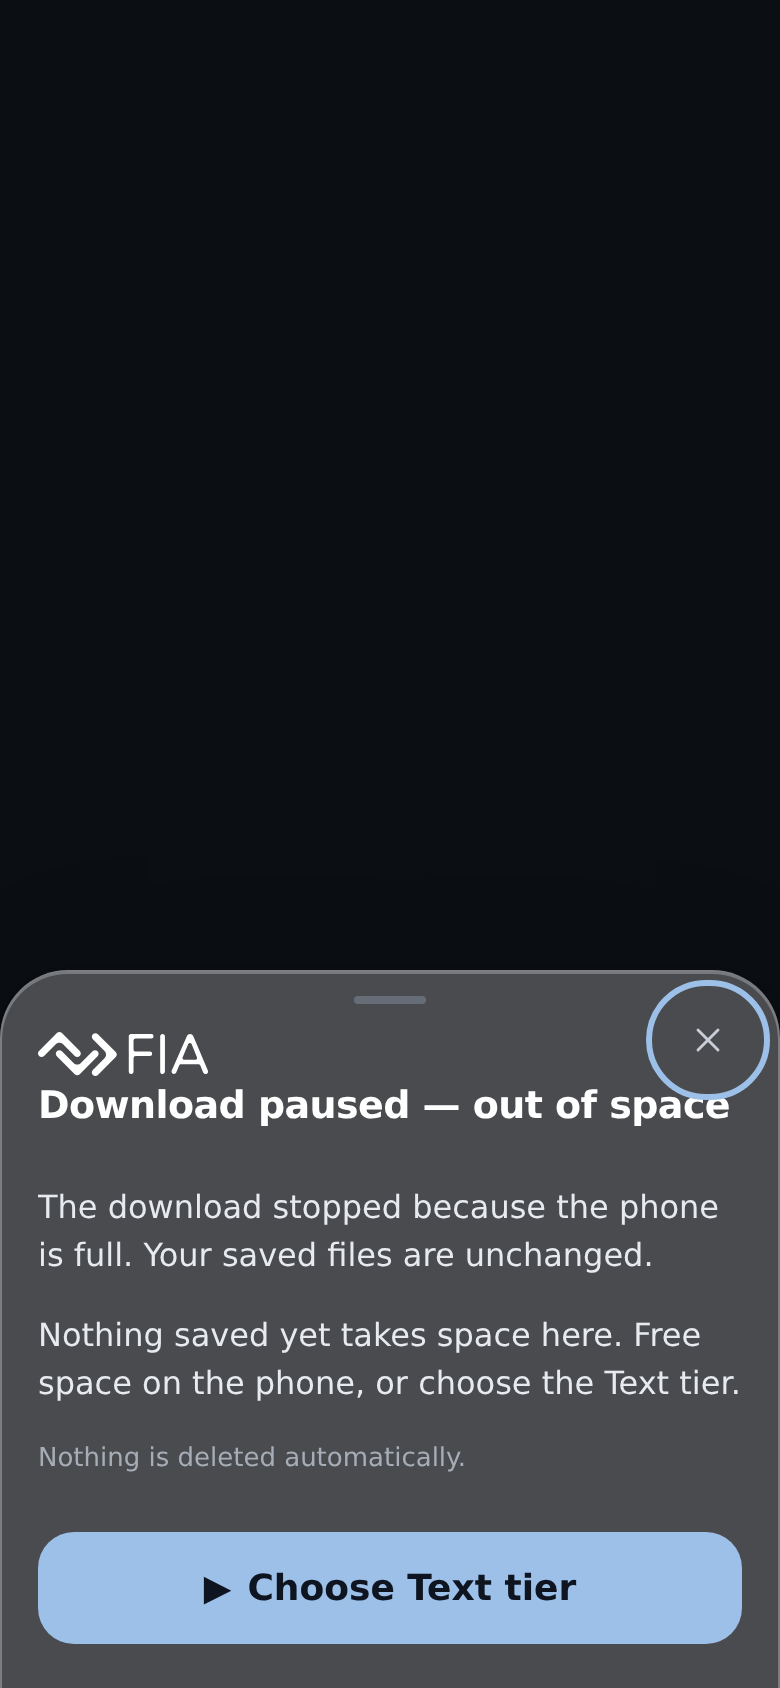
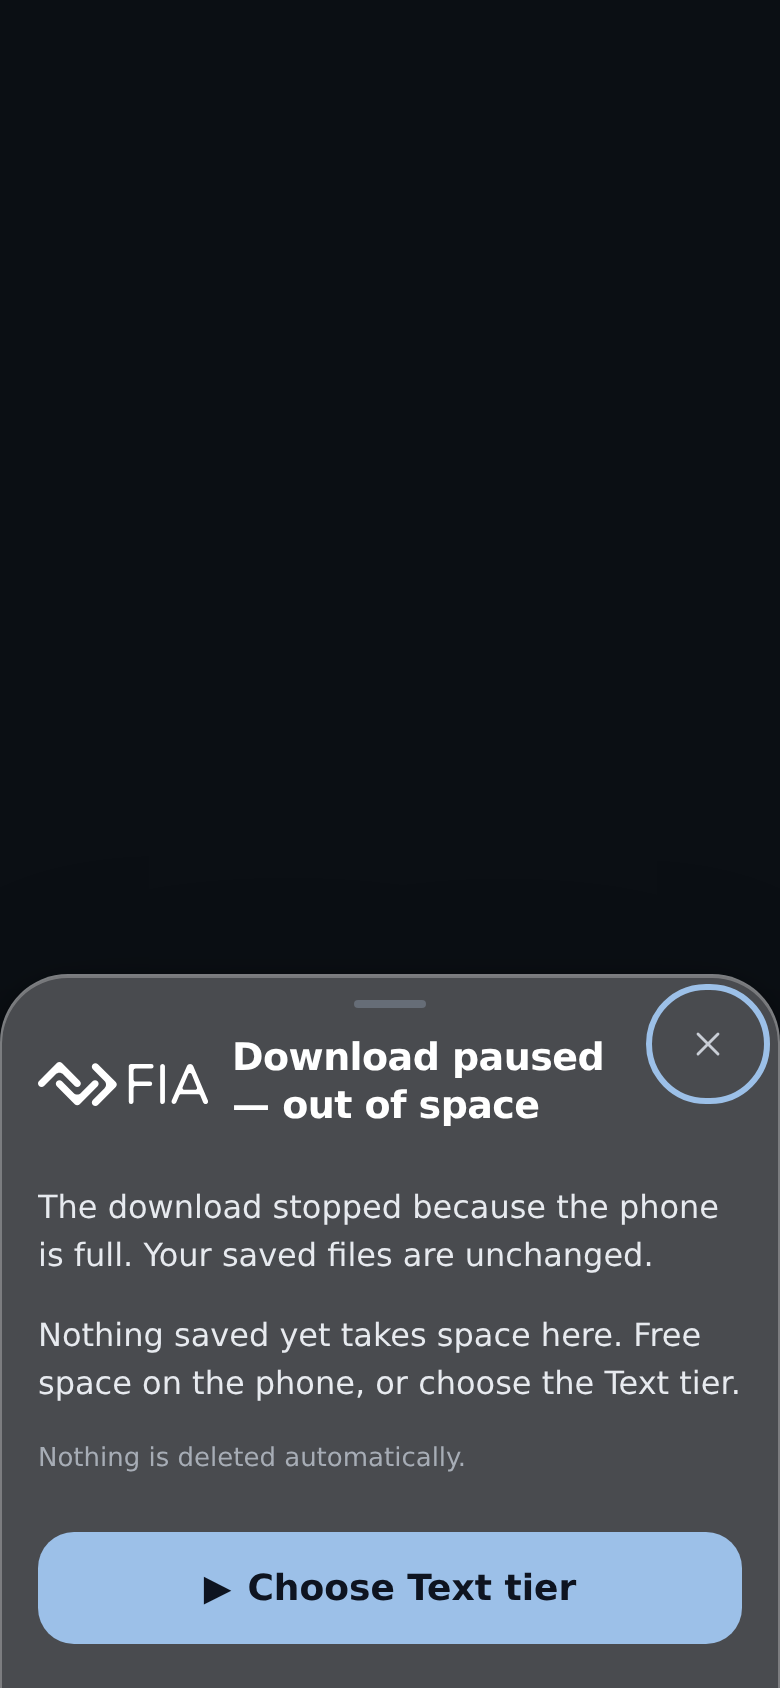
fix(sheet): brand title row keeps clear of the Close X (dl-sh32-02)
.fia-sheet-brand reserves the Close button's box at the inline end
(tap-min + 10px) and stays one row: logo flex:none, title flex 1 1 0
wrapping in its own column beside the logo, as mock 24 draws it.
Was: on SH-5 and SH-4 quota the title wrapped below the logo and ran
under the X (title x 19-367, Close x 329-379 at 390x844).

New e2e/sheet-title-close.spec.ts: title box never intersects the Close
box and sits right of the logo, SH-5 and SH-4 quota at 390 and 320 wide.
Re-shot 23 (space, quota) and 24 in screenshots/sheets-1420, light+dark.

Claude-Session: https://claude.ai/code/session_014nMC12tDRCMk4S73AiTkzS

Changed region(s): [[0.0308, 0.5545, 1.0, 0.6777], [0.0, 0.5853, 0.0308, 0.6161]]

diff --git a/e2e/sheet-title-close.spec.ts b/e2e/sheet-title-close.spec.ts
@@ -1,0 +1,34 @@
+import { expect, test } from '@playwright/test';
+
+// Design-lens dl-sh32-02 (PR #32 HOLD): on SH-5 and SH-4 quota the long title wrapped below the
+// logo and ran under the Close X. The logo and title stay on one row; the title box never meets
+// the Close button's box, at 390 and at 320 wide.
+test.use({ serviceWorkers: 'block' });
+
+const sheets = [
+  ['SH-5 forward-jump guard', '/sheet/jump'],
+  ['SH-4 quota', '/sheet/storage?variant=quota'],
+] as const;
+
+for (const width of [390, 320]) {
+  for (const [name, path] of sheets) {
+    test(`${name} title clears the Close button at ${width} wide`, async ({ page }) => {
+      await page.setViewportSize({ width, height: 844 });
+      await page.goto(path);
+      const dialog = page.locator('[role="dialog"]');
+      await expect(dialog).toBeVisible();
+      const title = (await dialog.locator('.fia-sheet-brand > span').boundingBox())!;
+      const logo = (await dialog.locator('.fia-sheet-brand > .fia-logo').boundingBox())!;
+      const close = (await dialog.locator('.fia-sheet__close').boundingBox())!;
+      const overlaps =
+        title.x < close.x + close.width &&
+        close.x < title.x + title.width &&
+        title.y < close.y + close.height &&
+        close.y < title.y + title.height;
+      expect(overlaps, JSON.stringify({ title, close })).toBe(false);
+      // One row: the title sits beside the logo, never below it.
+      expect(title.x).toBeGreaterThanOrEqual(logo.x + logo.width);
+      expect(title.x + title.width).toBeLessThanOrEqual(close.x);
+    });
+  }
+}

diff --git a/src/app.css b/src/app.css
@@ -294,13 +294,21 @@
   max-height: none;
 }
 /* Title row lockup: FIA logo then the title (RULING 2026-10-01 (f); mock _frame.css:191-192). */
+/* One row, never under the Close X: the end padding reserves the absolute Close button's box
+   (tap-min wide, 10px from the dialog edge), the logo keeps its size and the title wraps in its own
+   column beside it (design-lens dl-sh32-02; mock 24-sheet-forward-jump-guard.html:10). */
 .fia-sheet-brand {
   display: flex;
-  flex-wrap: wrap;
+  flex-wrap: nowrap;
   align-items: center;
-  gap: 4px 12px;
+  gap: 12px;
+  padding-inline-end: calc(var(--fia-tap-min) + 10px);
+}
+.fia-sheet-brand > .fia-logo {
+  flex: none;
 }
 .fia-sheet-brand > span {
+  flex: 1 1 0;
   min-width: 0;
   overflow-wrap: anywhere;
 }
